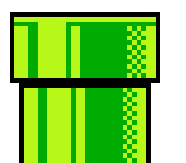
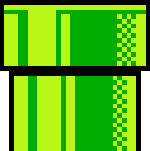
Super Mario

diff --git a/024-super-mario-animation.css b/024-super-mario-animation.css
@@ -1,0 +1,21 @@
+* { box-sizing: border-box;}
+
+.ground {
+  animation: forward 15s steps(1000) infinite forwards;
+}
+
+@keyframes forward {
+  100% { background-position: -3000px; }
+}
+
+.background {
+	padding: 100px;
+  width: 900px;
+  height: 300px;
+  border: thin solid black;
+  position: relative;
+  overflow: hidden;
+  border-radius: 25px;
+}
+
+.ground { background-image: url("images/super-mario/ground.png"); }

diff --git a/024-super-mario-animation.html b/024-super-mario-animation.html
@@ -1,0 +1,13 @@
+<!DOCTYPE html>
+<html lang="en">
+	<head>
+		<meta charset="UTF-8">
+		<title>Super Mario animation 024</title>
+		<link rel="stylesheet" type="text/css" href="024-super-mario-animation.css" />
+	</head>
+	<body>
+		<div class="background">
+			<div class="ground"></div>
+		</div>
+	</body>
+</html>
